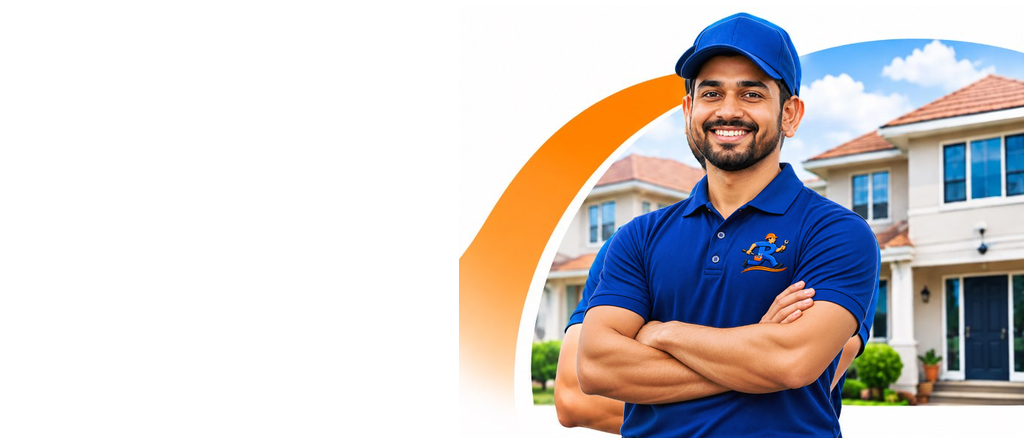
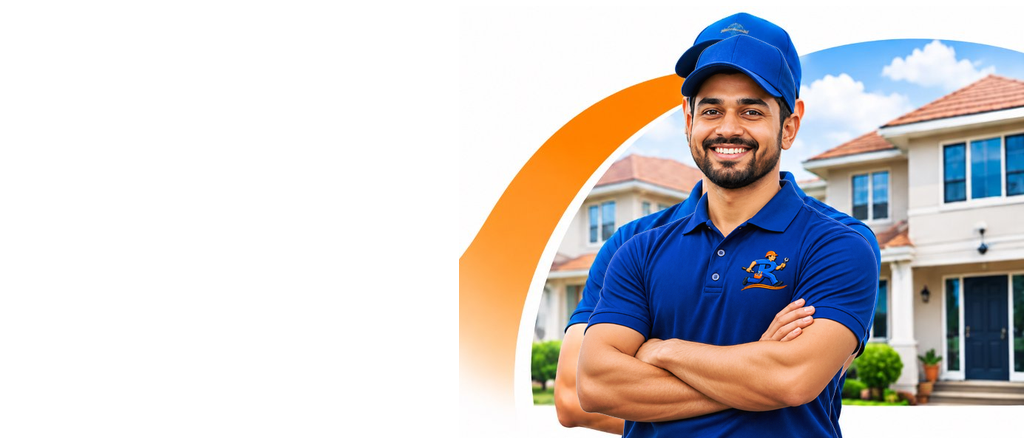
style(home): bring background image higher behind technician

Changed region(s): [[0.5625, 0.0297, 0.875, 1.0]]

diff --git a/app/page.tsx b/app/page.tsx
@@ -328,11 +328,11 @@ export default function Home() {
             {/* 1. Hero Graphic + Greeting Container (Extends to the right edge) */}
             <div className="relative w-[calc(100%+1rem)] sm:w-[calc(100%+1.5rem)] -mr-4 sm:-mr-6 min-h-[160px] min-[390px]:min-h-[175px] sm:min-h-[200px] flex items-end overflow-hidden">
               
-              {/* Full Composite Graphic (Houses + Orange Arc + Branded Technician brought flush to the right edge and elevated slightly up) */}
+              {/* Full Composite Graphic (Houses + Orange Arc + Branded Technician brought flush to the right edge with background elevated) */}
               <img 
                 src="/hero-composite.png" 
                 alt="Go_Repireo Doorstep Service"
-                className="absolute inset-0 w-full h-full object-cover object-right select-none pointer-events-none -translate-y-1.5 min-[390px]:-translate-y-2 sm:-translate-y-2.5"
+                className="absolute inset-0 w-full h-full object-cover object-right select-none pointer-events-none"
               />
 
               {/* Left Greeting & Typography (Positioned over clean white left area with ample breathing room) */}
@@ -352,7 +352,7 @@ export default function Home() {
             </div>
 
             {/* 2. Book a Service Banner (Seamlessly connected to the bottom of the hero graphic) */}
-            <section className="relative w-full rounded-[22px] sm:rounded-[26px] overflow-hidden shadow-md flex items-center min-h-[145px] sm:min-h-[170px] -mt-4.5 min-[390px]:-mt-5 sm:-mt-5.5 z-20">
+            <section className="relative w-full rounded-[22px] sm:rounded-[26px] overflow-hidden shadow-md flex items-center min-h-[145px] sm:min-h-[170px] -mt-3.5 min-[390px]:-mt-4 sm:-mt-4.5 z-20">
               <img 
                 src="/banner-book-service.jpg" 
                 alt="Book a Service"
